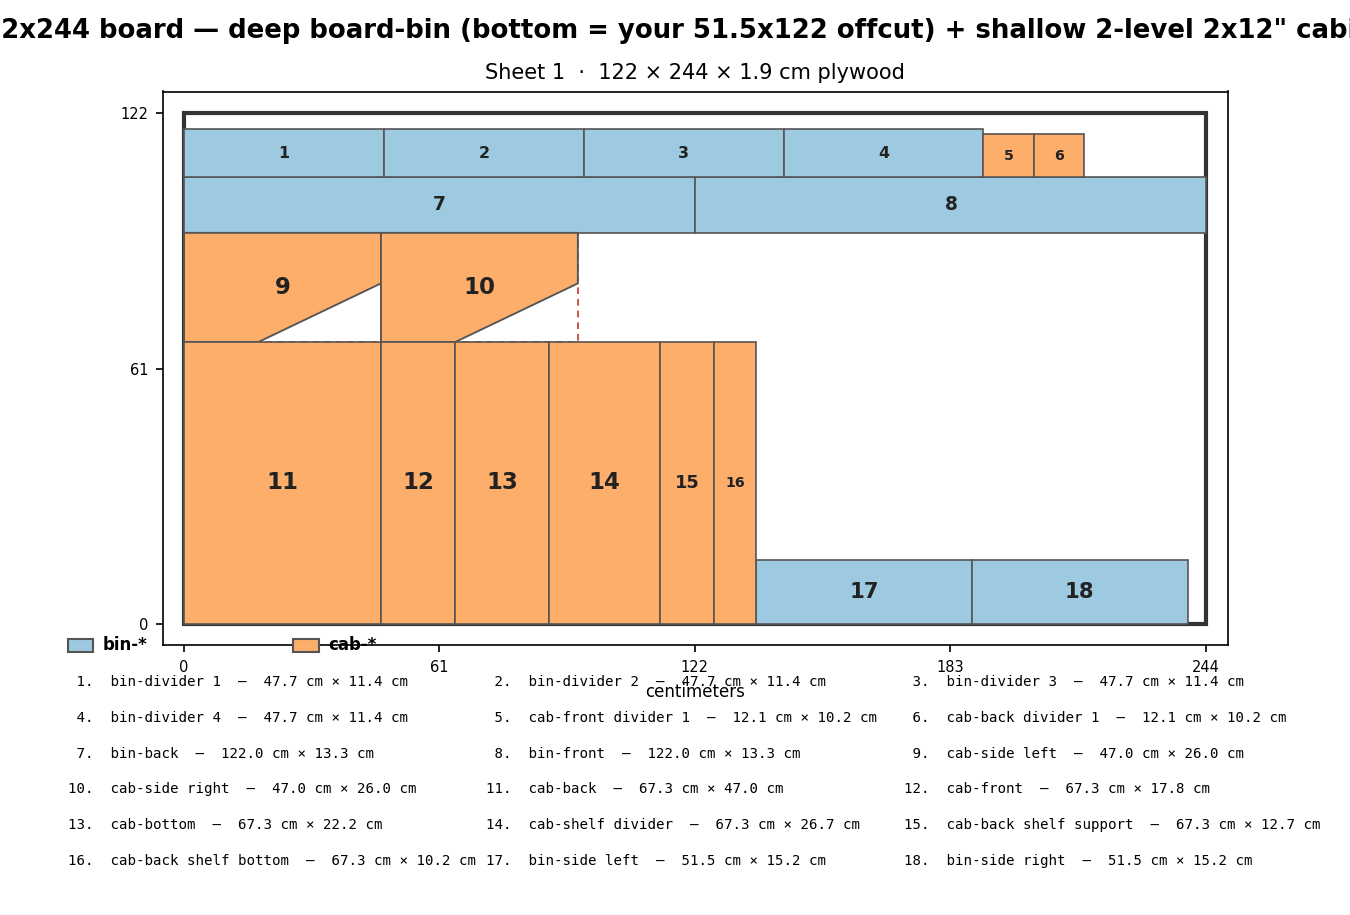
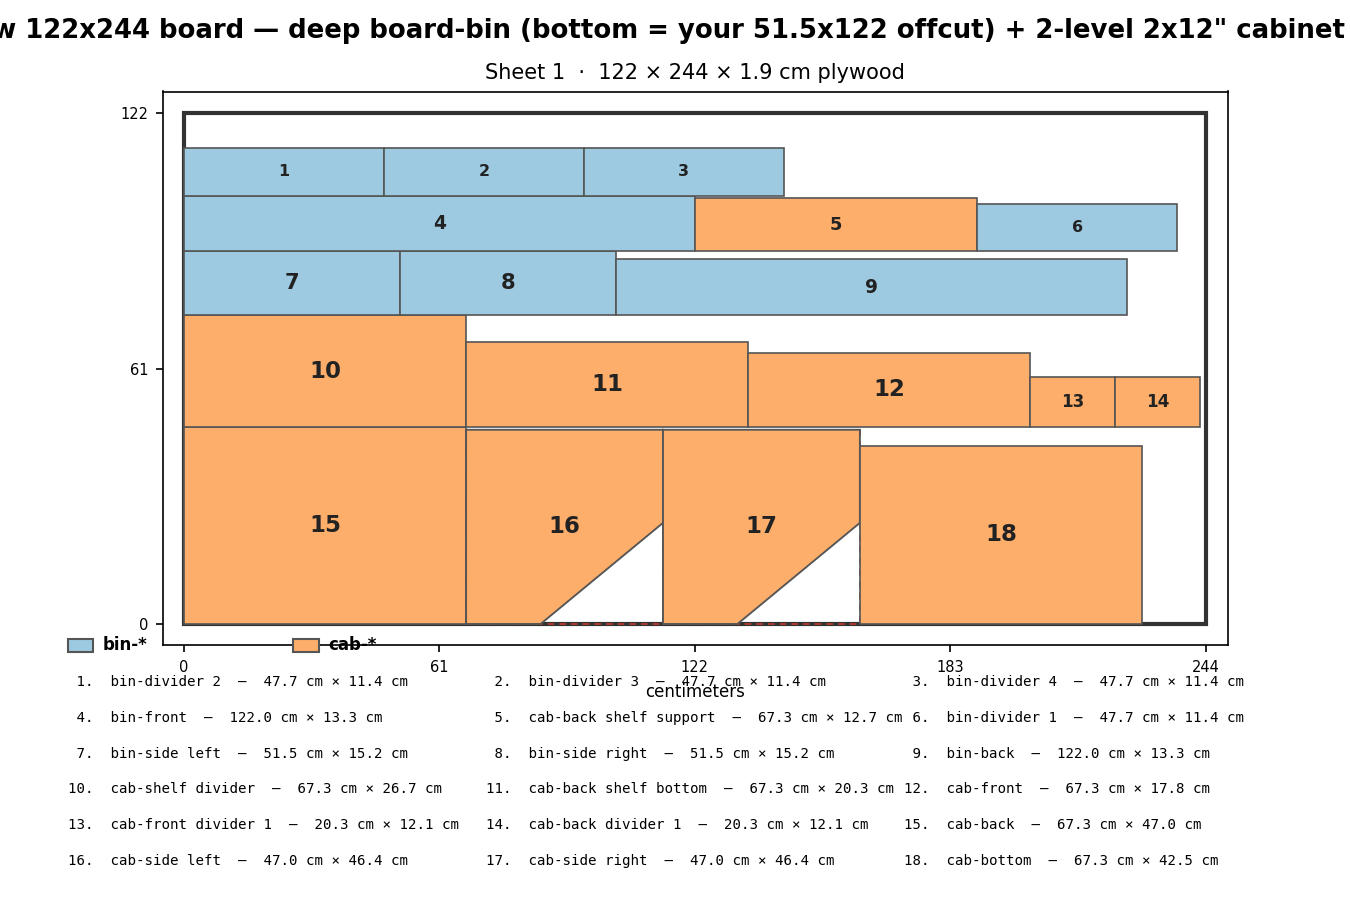
Deepen shelf #2 to 46 cm (max on one board)
CAB_ROW_DEPTH 4"->8" (~46 cm deep) per user's choice: highest capacity that
still fits one board. Layout is interleaved (not grouped) at this depth. Adds
shelf #2 render + viewer at the new depth.

diff --git a/src/combined_board.py b/src/combined_board.py
@@ -17,7 +17,7 @@ import board_bin
 import record_storage as rs
 import cutsheet
 
-CAB_ROW_DEPTH = 4.0   # 4" rows -> ~26 cm deep (lets the grouped cut fit 1 board)
+CAB_ROW_DEPTH = 8.0   # 8" rows -> ~46 cm deep (deepest that still fits 1 board)
 
 
 def plywood_only(parts, prefix):
@@ -37,7 +37,7 @@ def main():
     merged.update(plywood_only(shelf2, "cab-"))
 
     title = ("Two shelves, one new 122x244 board — deep board-bin (bottom = your "
-             "51.5x122 offcut) + shallow 2-level 2x12\" cabinet (~26 cm deep)")
+             "51.5x122 offcut) + 2-level 2x12\" cabinet (~46 cm deep)")
     placed = cutsheet.draw(merged, title, "cut_diagram_combined.png", unit="in")
     nsheets = max(p["sheet"] for p in placed) + 1
     cutsheet.draw(merged, title + "  (cm)", "cut_diagram_combined_cm.png",